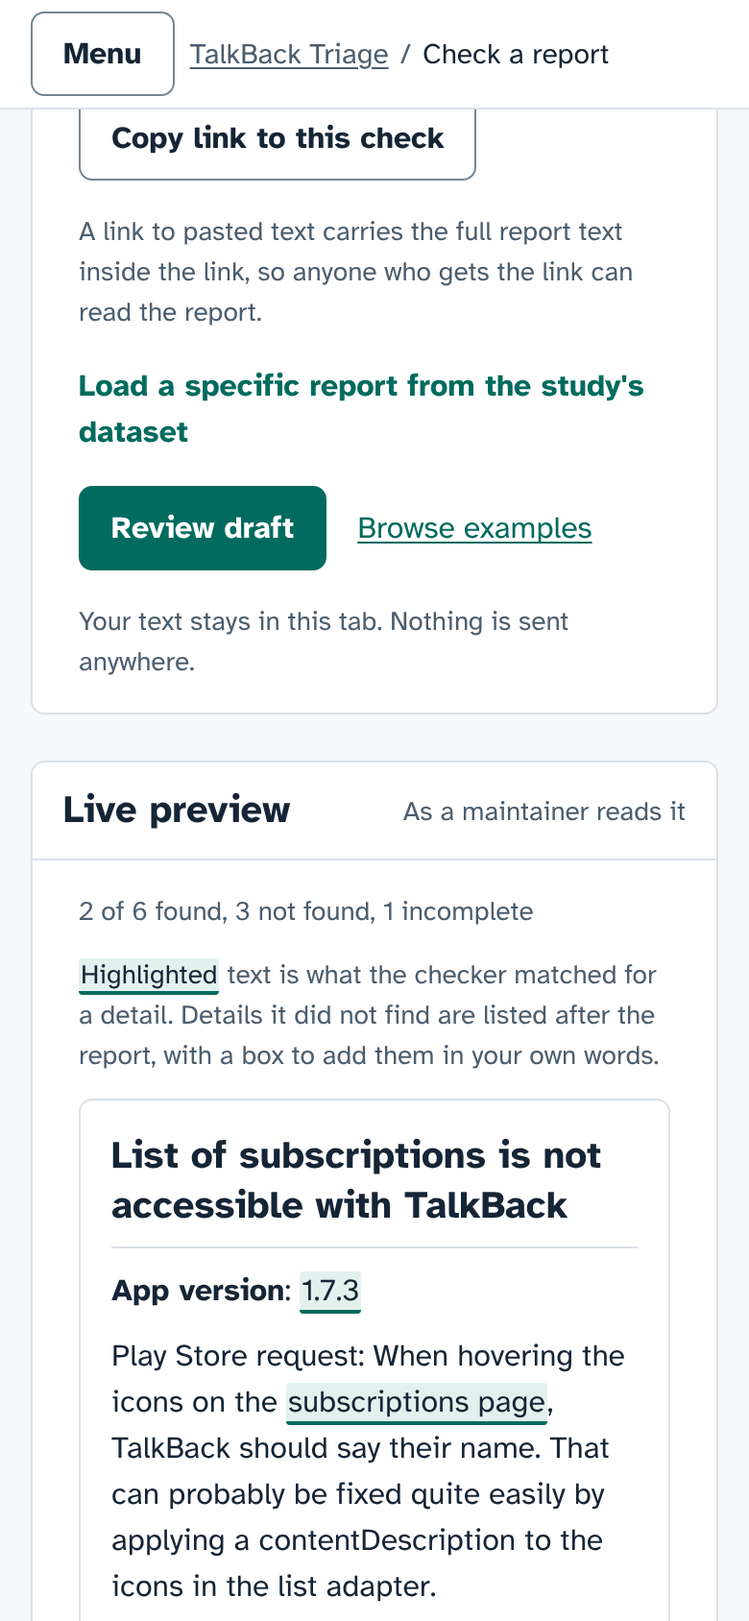
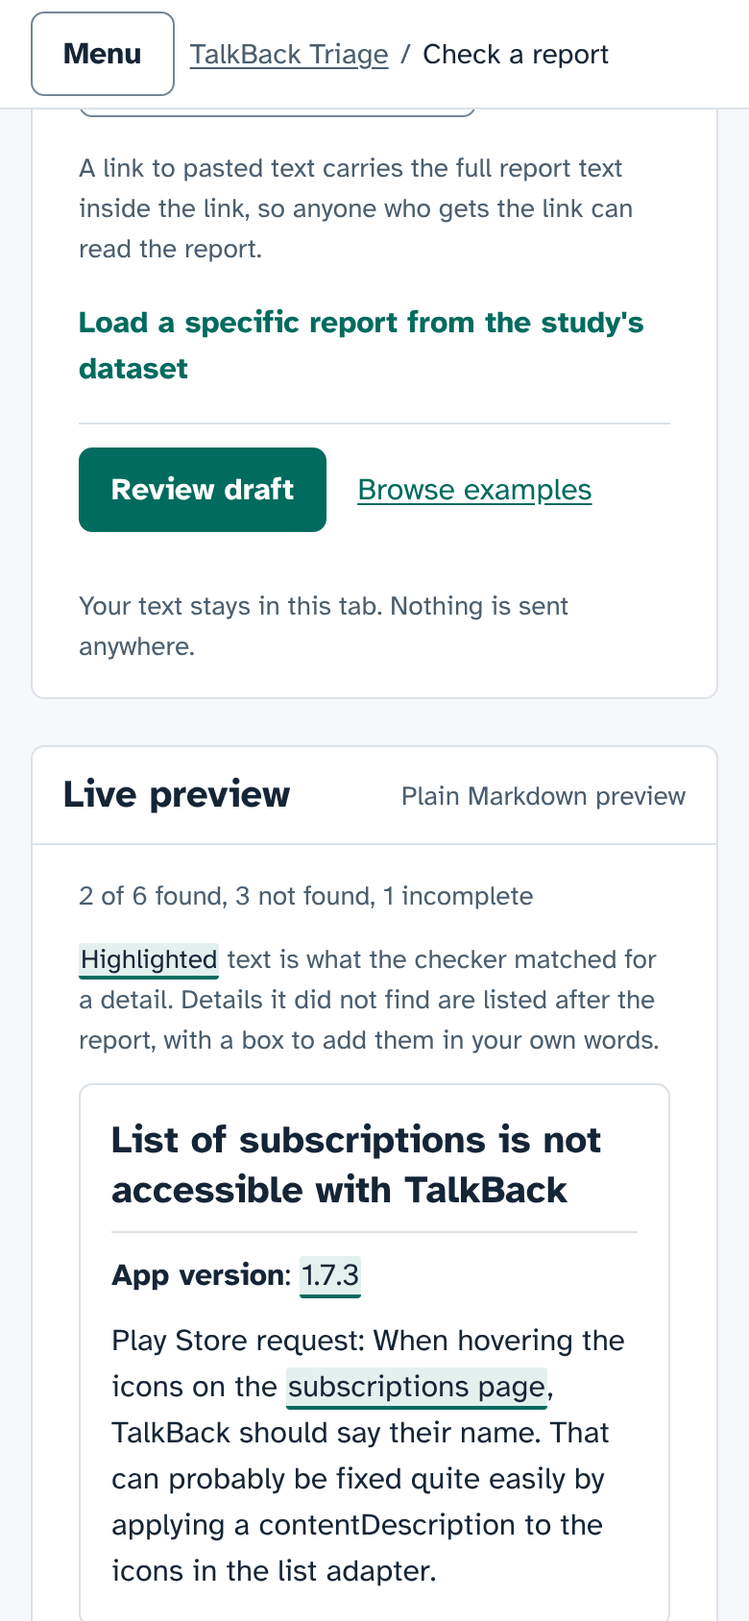
Review fixes: H1 focus on every route, primary action in view, exact highlights
- test: H1 focus asserted on all seven screens, each reached through the nav
  from another screen (sabotaging Draft's focus fails exactly that check)
- Review draft row is sticky at the bottom while the editor is visible
  (1440x900: in the viewport); scroll-padding keeps focus clear of the
  sticky header and action row (tested at 375px)
- table legends moved out of captions; captions capped to the visible
  region on narrow screens (overflow test checks captions and legends)
- highlight offsets come from a case-insensitive match on the original
  text, not a lower-cased copy (test with "İ")
- unknown #check?report= IDs say "Report not found"
- README/DESIGN/CHANGELOG: "plain Markdown preview of the issue body"
- commit the local semgrep rule file and the inline-script extractor

Claude-Session: https://claude.ai/code/session_01SBDy3AAAGa7xAC8BzFcKKn

Changed region(s): [[0.0615, 0.4621, 0.9231, 0.9858], [0.0923, 0.0616, 0.8615, 0.4313]]

diff --git a/docs/index.html b/docs/index.html
@@ -3,7 +3,7 @@
 <head>
 <meta charset="utf-8">
 <meta name="viewport" content="width=device-width, initial-scale=1, viewport-fit=cover">
-<meta http-equiv="Content-Security-Policy" content="default-src 'self'; script-src 'sha256-A9aR1WB4oRh7WdXzdJyHg42o6WdmUxBWDg2F4HEAiCU=' 'sha256-SAg9twp00yCf7otyFgCyoS+e4A5/DcrvQBHdz2pLGGM=' 'sha256-8rrvp3IlKpx7OC3Z4x7PLm4TD7SUo9IRxFA04K08lXQ=' 'sha256-E4MneF5z/DR0yJT+sWInBcrzLs+rr5Zu3oBrxZtsYFI='; style-src 'self' 'unsafe-inline'; font-src 'self'; img-src 'self' data:; connect-src 'self'; worker-src 'self'; manifest-src 'self'; object-src 'none'; base-uri 'none'; form-action 'none'">
+<meta http-equiv="Content-Security-Policy" content="default-src 'self'; script-src 'sha256-A9aR1WB4oRh7WdXzdJyHg42o6WdmUxBWDg2F4HEAiCU=' 'sha256-SAg9twp00yCf7otyFgCyoS+e4A5/DcrvQBHdz2pLGGM=' 'sha256-8rrvp3IlKpx7OC3Z4x7PLm4TD7SUo9IRxFA04K08lXQ=' 'sha256-Kf7R14+qAl6TmVcK8wD3q2BXd6DBcKSxFUo8OU2nQBk='; style-src 'self' 'unsafe-inline'; font-src 'self'; img-src 'self' data:; connect-src 'self'; worker-src 'self'; manifest-src 'self'; object-src 'none'; base-uri 'none'; form-action 'none'">
 <meta name="description" content="Paste an Android accessibility bug report and see which details a developer needs are missing: TalkBack steps, app version, device, expected vs. actual. Runs offline in the browser.">
 <meta name="theme-color" content="#f7f8fa">
 <link rel="icon" href="icon.svg" type="image/svg+xml">
@@ -178,7 +178,12 @@ mark.hit { background: var(--accent-subtle); color: var(--fg); border-bottom: 2p
 .hint { font-size: .875rem; color: var(--fg-muted); }
 .src { font-size: .875rem; color: var(--fg-muted); overflow-wrap: anywhere; }
 .tools { display: flex; flex-wrap: wrap; gap: var(--s2); padding-top: var(--s3); border-top: 1px solid var(--border); }
-.focal { display: flex; flex-wrap: wrap; gap: var(--s3); align-items: center; }
+/* the one primary action stays in view while the editor is on screen (sticky to the viewport bottom) */
+.focal { display: flex; flex-wrap: wrap; gap: var(--s3); align-items: center; position: sticky; bottom: 0; z-index: 2; background: var(--bg); padding: 12px 0; border-top: 1px solid var(--border); }
+/* keep keyboard focus from landing under the sticky action row (WCAG 2.4.11) */
+html { scroll-padding-bottom: 96px; }
+/* under 1000px the location header is sticky too: keep focused controls from scrolling under it */
+@media (max-width: 999px) { html { scroll-padding-top: 80px; } }
 .privacy { font-size: .875rem; color: var(--fg-muted); }
 #copy-tpl-status:empty, #link-status:empty { display: none; }
 .summary { font-size: .875rem; color: var(--fg-muted); font-weight: 400; }
@@ -255,13 +260,17 @@ tr.sel td { background: var(--accent-subtle); }
 .prose ul { margin: 0; padding-left: 1.2em; display: grid; gap: 6px; }
 .grid2 { display: grid; grid-template-columns: minmax(0, 1.15fr) minmax(0, 1fr); gap: var(--s3); align-items: start; }
 @media (max-width: 1099px) { .grid2 { grid-template-columns: minmax(0, 1fr); } }
-.legendline { font-size: .8125rem; color: var(--fg-muted); font-weight: 400; }
+.legendline { font-size: .8125rem; color: var(--fg-muted); font-weight: 400; max-width: 80ch; }
 .noscript { margin: 16px 0; padding: 12px 16px; border: 1px solid var(--border-strong); border-radius: var(--radius); background: var(--bg); color: var(--fg); max-width: 80ch; }
 .noscript p { margin: 0; }
 @media (pointer: coarse) { input[type="text"], textarea, select { font-size: 16px; } }
 /* the saved-run picker's options are long: let the control shrink inside its row */
 label.row { min-width: 0; max-width: 100%; flex-wrap: nowrap; }
 label.row select { flex: 1 1 auto; min-width: 0; }
+/* a caption is as wide as its table; when the table scrolls inside its region, keep the caption within the
+   visible part of the region and pinned to its left edge, so it is never clipped */
+@media (max-width: 999px) { caption { max-width: calc(100vw - 50px); position: sticky; left: 0; } }
+@media (max-width: 599px) { caption { max-width: calc(100vw - 34px); } }
 </style>
 <script>
 // Light is the default, also when the OS prefers dark. Dark applies only after the person picks it with the
@@ -355,7 +364,7 @@ try { if (localStorage.getItem("tbt-theme") === "dark") document.documentElement
     </section>
 
     <section class="box preview" aria-labelledby="pv-h">
-      <div class="box-header"><h2 id="pv-h">Live preview</h2><span class="step">As a maintainer reads it</span></div>
+      <div class="box-header"><h2 id="pv-h">Live preview</h2><span class="step">Plain Markdown preview</span></div>
       <div class="box-body stack">
         <p class="summary" id="chk-score" role="status" aria-live="polite"></p>
         <p class="small muted" id="pv-legend"><mark class="hit">Highlighted</mark> text is what the checker matched for a detail. Details it did not find are listed after the report, with a box to add them in your own words.</p>
@@ -440,9 +449,10 @@ try { if (localStorage.getItem("tbt-theme") === "dark") document.documentElement
     </div>
   </div>
   <p class="small muted" id="ex-count" role="status" aria-live="polite"></p>
+  <p class="legendline" id="ex-legend">Details in report: a solid tag was found, a dashed, struck-through tag was not. TB TalkBack steps, VER app version, DEV Android version or device, E/A expected vs. actual, SAID what TalkBack said, MEDIA recording or screenshot.</p>
   <div class="tablewrap" tabindex="0" role="region" aria-label="Example reports">
-    <table id="ex-table">
-      <caption>Example reports<br><span class="legendline">Details in report: a solid tag was found, a dashed, struck-through tag was not. TB TalkBack steps, VER app version, DEV Android version or device, E/A expected vs. actual, SAID what TalkBack said, MEDIA recording or screenshot.</span></caption>
+    <table id="ex-table" aria-describedby="ex-legend">
+      <caption>Example reports</caption>
       <thead><tr><th scope="col">Report</th><th scope="col">Details in report</th><th scope="col">GitHub outcome</th></tr></thead>
       <tbody></tbody>
     </table>
@@ -1601,20 +1611,22 @@ if ("serviceWorker" in navigator && /^https?:$/.test(location.protocol) && windo
   const STATE_TEXT = { present: "Found", partial: "Incomplete", notfound: "Not found", optional: "Optional", na: "Not needed" };
 
   // ---------- the composer: live preview with matched spans and inline gap prompts ----------
-  // The preview shows the report the way a maintainer reads it on GitHub (headings, lists, quotes, code), built
+  // The preview is a plain Markdown preview of the issue body (headings, lists, quotes, code, bold), built
   // with DOM nodes only, so pasted HTML stays text. For each detail the checker found, the text it matched is
   // highlighted where it appears in the report (when that text can be placed exactly). Details it did not find
   // become gap prompts: the reporter types the detail and "Add to report" appends it, in their words, to the
   // report text. The checker itself (src/checker.js) is unchanged; nothing is filled in for the reporter.
   const lc = (x) => String(x || "").toLowerCase();
   function spansFor(body, a) {
-    const out = [], low = lc(body);
+    const out = [];
     const by = Object.fromEntries(a.items.map((i) => [i.key, i]));
     const lit = (txt, it) => {
       const t = String(txt || "").replace(/…$/, "").trim();
       if (t.length < 2) return;
-      const i = low.indexOf(lc(t));
-      if (i >= 0) out.push({ start: i, end: i + t.length, key: it.key, name: it.name });
+      // match on the original text (case-insensitive regex), so offsets stay right when lower-casing would
+      // change a string's length (for example "İ" becomes two code units)
+      const m = new RegExp(t.replace(/[.*+?^${}()|[\]\\]/g, "\\$&"), "i").exec(body);
+      if (m) out.push({ start: m.index, end: m.index + m[0].length, key: it.key, name: it.name });
     };
     const lines = (re, it) => { re.lastIndex = 0; let m; while ((m = re.exec(body))) { const lead = m[0].length - m[0].replace(/^[ \t>]*/, "").length; out.push({ start: m.index + lead, end: m.index + m[0].length, key: it.key, name: it.name }); if (!m[0].length) re.lastIndex++; } };
     const ok = (it) => it && (it.status === "present" || it.status === "partial") && it.found;
@@ -1849,6 +1861,11 @@ if ("serviceWorker" in navigator && /^https?:$/.test(location.protocol) && windo
   function applyCheckParams(params) {
     const id = params.get("report"), code = params.get("text");
     if (id && BY_ID[id]) { if (id !== shownId) loadExample(id); }
+    else if (id) {
+      ensureReport();
+      setHash("check", checkParams());
+      $("#ex-source").replaceChildren(h("strong", null, "Report not found. "), "The link asked for \u201c" + id.slice(0, 40) + "\u201d, which is not one of the " + REPORTS.length + " dataset reports. Showing the report already in this tab instead; see Examples for the list.");
+    }
     else if (code != null) {
       const st = C.decodeState(code);
       if (st) {
@@ -2260,8 +2277,8 @@ if ("serviceWorker" in navigator && /^https?:$/.test(location.protocol) && windo
         h("td", null, h("button", { class: "btn link", "aria-label": "Details for " + r.app + " #" + r.number, onclick: () => { detailId = r.id; renderResults(); const d = $("#detail"); if (d) d.focus(); } }, "Details")));
       return tr;
     });
-    const rt = h("table", null,
-      h("caption", null, "Every report in this run", h("br"), h("span", { class: "legendline" }, "Details in report: a solid tag was found, a dashed, struck-through tag was not. TB TalkBack steps, VER app version, DEV Android version or device, E/A expected vs. actual, SAID what TalkBack said, MEDIA recording or screenshot.")),
+    const rt = h("table", { "aria-describedby": "run-legend" },
+      h("caption", null, "Every report in this run"),
       h("thead", null, h("tr", null, h("th", { scope: "col" }, "Report"), h("th", { scope: "col" }, "Details in report"), h("th", { scope: "col" }, "GitHub outcome"), conds.map((c) => h("th", { scope: "col" }, T.CONDITIONS[c].short)), h("th", { scope: "col" }, h("span", { class: "sr-only" }, "Open")))),
       h("tbody", null, rowsEl));
 
@@ -2278,6 +2295,7 @@ if ("serviceWorker" in navigator && /^https?:$/.test(location.protocol) && windo
       Object.keys(S.paired).length ? h("div", { class: "box pad stack" }, h("h3", null, "Paired comparison"), pairedList) : null,
       human,
       detailId ? detailPanel(BY_ID[detailId], run, conds) : null,
+      h("p", { class: "legendline", id: "run-legend" }, "Details in report: a solid tag was found, a dashed, struck-through tag was not. TB TalkBack steps, VER app version, DEV Android version or device, E/A expected vs. actual, SAID what TalkBack said, MEDIA recording or screenshot."),
       h("div", { class: "tablewrap", tabindex: "0", role: "region", "aria-label": "Every report in this run" }, rt),
       exportRow].filter(Boolean));
   }

diff --git a/test/routes.e2e.js b/test/routes.e2e.js
@@ -79,6 +79,13 @@ const overflow = (page) => page.evaluate(() => document.scrollingElement.scrollW
         ok(cur.length === 1 && cur[0] === nav, hash + ": rail marks \"" + nav + "\" with aria-current=page (" + cur.join(", ") + ")");
       }
       const over = await overflow(page);
+      // captions and table legends must not be clipped by the table's own scroll region
+      const clipped = await page.$$eval("main caption, main .legendline", (els) => els.filter((e) => e.getClientRects().length && !e.closest("th, td")).filter((e) => {
+        const r = e.getBoundingClientRect(), box = e.closest(".tablewrap");
+        const edge = Math.min(window.innerWidth, box ? box.getBoundingClientRect().right : window.innerWidth);
+        return r.right > edge + 1 || e.scrollWidth > e.clientWidth + 1;
+      }).map((e) => (e.id || e.tagName) + " " + Math.round(e.getBoundingClientRect().width) + "px"));
+      ok(!clipped.length, width + "px " + hash + ": table captions and legends fit their region" + (clipped.length ? " (" + clipped.join(", ") + ")" : ""));
       ok(over <= 0, width + "px " + hash + ": no page horizontal overflow (" + over + "px)");
     }
     await goHash(page, "#/no-such-screen");
@@ -97,6 +104,30 @@ const overflow = (page) => page.evaluate(() => document.scrollingElement.scrollW
     ok(await page.evaluate(() => document.activeElement.getAttribute("tabindex") === "-1" && document.activeElement.id !== "main"), "the H1 (tabindex=-1), not the whole workspace, takes focus");
     await page.goBack(); await page.waitForTimeout(80);
     ok(await page.evaluate(() => document.activeElement.tagName === "H1" && /Check a TalkBack report/.test(document.activeElement.textContent)), "browser Back also focuses the H1");
+    await ctx.close();
+  });
+
+  console.log("H1 focus on every route, reached through the navigation");
+  // each target is opened from a different screen: rail links for the Work/Learn screens, the Research section nav
+  // for Labels and Methods, and an address change for Not found (it has no nav link)
+  const VIA = {
+    "#/check": ["#/examples", (p) => p.locator("#rail").getByRole("link", { name: "Check a report" }).click()],
+    "#/draft": ["#/check", (p) => p.locator("#rail").getByRole("link", { name: "Draft" }).click()],
+    "#/examples": ["#/draft", (p) => p.locator("#rail").getByRole("link", { name: "Examples" }).click()],
+    "#/research": ["#/check", (p) => p.locator("#rail").getByRole("link", { name: "Research" }).click()],
+    "#/research/labels": ["#/research", (p) => p.locator("#pilot nav.subnav").getByRole("link", { name: "Labels" }).click()],
+    "#/research/methods": ["#/research/labels", (p) => p.locator("#label nav.subnav").getByRole("link", { name: "Methods" }).click()],
+    "#/no-such-screen": ["#/examples", (p) => p.evaluate(() => { location.hash = "#/no-such-screen"; })],
+  };
+  await guard("H1 focus on every route", async () => {
+    const { ctx, page } = await open({}, "#/check");
+    for (const [hash, h1] of SCREENS.map((x) => [x[0], x[1]]).concat([["#/no-such-screen", "Page not found"]])) {
+      const [from, nav] = VIA[hash];
+      await goHash(page, from);
+      await nav(page); await page.waitForTimeout(80);
+      const got = await page.evaluate(() => ({ tag: document.activeElement.tagName, text: document.activeElement.textContent.trim(), hash: location.hash.split("?")[0] }));
+      ok(got.tag === "H1" && got.text === h1 && got.hash === hash, from + " -> " + hash + ": focus is on the H1 \"" + h1 + "\" (" + got.tag + " \"" + got.text.slice(0, 40) + "\")");
+    }
     await ctx.close();
   });
 
@@ -165,6 +196,43 @@ const overflow = (page) => page.evaluate(() => document.scrollingElement.scrollW
   await guard("block at line 164", async () => {
     const { ctx, page } = await open({}, "#/examples?app=WP");
     ok((await h1Text(page)) === "Examples" && (await page.locator("#ex-table tbody tr").count()) === 51, "deep link #/examples?app=WP opens with the filter applied (51 rows)");
+    await ctx.close();
+  });
+
+  console.log("primary action in view, unknown report links");
+  await guard("Review draft in view", async () => {
+    const { ctx, page } = await open({ viewport: { width: 1440, height: 900 } }, "#/check?report=AP-3563");
+    const box = await page.getByRole("link", { name: "Review draft" }).boundingBox();
+    ok(box && box.y >= 0 && box.y + box.height <= 900 && box.x + box.width <= 1440, "1440x900: Review draft is inside the viewport without scrolling (y=" + (box && Math.round(box.y)) + ")");
+    await ctx.close();
+  });
+  await guard("unknown report", async () => {
+    const { ctx, page } = await open({}, "#check?report=AP-999999");
+    ok(/Report not found/.test(await page.textContent("#ex-source")) && /AP-999999/.test(await page.textContent("#ex-source")), "an unknown report ID says so instead of silently showing a sample: " + (await page.textContent("#ex-source")).slice(0, 80));
+    ok(!/AP-999999/.test(await page.evaluate(() => location.hash)), "the address no longer points at the missing report");
+    await ctx.close();
+  });
+
+  await guard("focus not obscured", async () => {
+    // WCAG 2.4.11: a focused control stays at least partly visible past the sticky header and the sticky action row
+    const { ctx, page } = await open({ viewport: { width: 375, height: 640 } }, "#/check?report=AP-3563");
+    const hidden = [];
+    for (let i = 0; i < 30; i++) {
+      await page.keyboard.press("Tab");
+      const r = await page.evaluate(() => {
+        const a = document.activeElement, b = a.getBoundingClientRect();
+        const head = document.querySelector(".loc").getBoundingClientRect();
+        const bar = document.querySelector("#check .focal");
+        if (a === document.body || a.closest(".loc") || a.id === "skip") return { visible: true };
+        // the action row covers only what is below its top edge while it is pinned there
+        let barTop = window.innerHeight;
+        if (bar && !bar.contains(a) && bar.getClientRects().length) { const t = bar.getBoundingClientRect().top; if (t > b.top) barTop = t; }
+        const top = Math.max(b.top, head.bottom), bottom = Math.min(b.bottom, barTop, window.innerHeight);
+        return { id: a.id || a.textContent.trim().slice(0, 24), visible: bottom > top };
+      });
+      if (!r.visible) hidden.push(r.id);
+    }
+    ok(!hidden.length, "375px: no focused control is hidden under the sticky header or action row" + (hidden.length ? " (" + hidden.join(", ") + ")" : ""));
     await ctx.close();
   });
 
@@ -241,6 +309,18 @@ const overflow = (page) => page.evaluate(() => document.scrollingElement.scrollW
     ok((await page.getAttribute('#checklist li[data-key="device"]', "data-status")) === "present" && (await page.locator('#gaps .gap[data-key="device"]').count()) === 0, "the report is re-checked: the device is now found and its prompt is gone");
     ok(/now finds it/.test(await page.textContent("#gap-status")), "the result is announced: " + (await page.textContent("#gap-status")));
     ok((await page.evaluate(() => location.hash)) === "#/check", "the edited report is no longer the dataset report in the URL");
+    await ctx.close();
+  });
+
+  await guard("highlight offsets", async () => {
+    const { ctx, page } = await open({}, "#/check");
+    // "İ" becomes two code units when lower-cased, which shifted offsets taken from a lower-cased copy
+    await page.fill("#in-title", "İİİİ Istanbul list");
+    await page.fill("#in-body", "İİİİ İstanbul İzmir screen.\nApp version: 3.1.0\nTalkBack says Button.");
+    await page.waitForTimeout(300);
+    const hit = page.locator('#preview mark.hit[data-key="appVersion"]');
+    const t = (await hit.count()) ? (await hit.textContent()).replace(/ \(matched:.*$/, "") : "";
+    ok(t === "3.1.0", "with İ before it, the app version highlight covers exactly \"3.1.0\" (" + JSON.stringify(t) + ")");
     await ctx.close();
   });
 

diff --git a/src/app.html b/src/app.html
@@ -93,7 +93,7 @@ try { if (localStorage.getItem("tbt-theme") === "dark") document.documentElement
     </section>
 
     <section class="box preview" aria-labelledby="pv-h">
-      <div class="box-header"><h2 id="pv-h">Live preview</h2><span class="step">As a maintainer reads it</span></div>
+      <div class="box-header"><h2 id="pv-h">Live preview</h2><span class="step">Plain Markdown preview</span></div>
       <div class="box-body stack">
         <p class="summary" id="chk-score" role="status" aria-live="polite"></p>
         <p class="small muted" id="pv-legend"><mark class="hit">Highlighted</mark> text is what the checker matched for a detail. Details it did not find are listed after the report, with a box to add them in your own words.</p>
@@ -178,9 +178,10 @@ try { if (localStorage.getItem("tbt-theme") === "dark") document.documentElement
     </div>
   </div>
   <p class="small muted" id="ex-count" role="status" aria-live="polite"></p>
+  <p class="legendline" id="ex-legend">Details in report: a solid tag was found, a dashed, struck-through tag was not. TB TalkBack steps, VER app version, DEV Android version or device, E/A expected vs. actual, SAID what TalkBack said, MEDIA recording or screenshot.</p>
   <div class="tablewrap" tabindex="0" role="region" aria-label="Example reports">
-    <table id="ex-table">
-      <caption>Example reports<br><span class="legendline">Details in report: a solid tag was found, a dashed, struck-through tag was not. TB TalkBack steps, VER app version, DEV Android version or device, E/A expected vs. actual, SAID what TalkBack said, MEDIA recording or screenshot.</span></caption>
+    <table id="ex-table" aria-describedby="ex-legend">
+      <caption>Example reports</caption>
       <thead><tr><th scope="col">Report</th><th scope="col">Details in report</th><th scope="col">GitHub outcome</th></tr></thead>
       <tbody></tbody>
     </table>
@@ -580,20 +581,22 @@ if ("serviceWorker" in navigator && /^https?:$/.test(location.protocol) && windo
   const STATE_TEXT = { present: "Found", partial: "Incomplete", notfound: "Not found", optional: "Optional", na: "Not needed" };
 
   // ---------- the composer: live preview with matched spans and inline gap prompts ----------
-  // The preview shows the report the way a maintainer reads it on GitHub (headings, lists, quotes, code), built
+  // The preview is a plain Markdown preview of the issue body (headings, lists, quotes, code, bold), built
   // with DOM nodes only, so pasted HTML stays text. For each detail the checker found, the text it matched is
   // highlighted where it appears in the report (when that text can be placed exactly). Details it did not find
   // become gap prompts: the reporter types the detail and "Add to report" appends it, in their words, to the
   // report text. The checker itself (src/checker.js) is unchanged; nothing is filled in for the reporter.
   const lc = (x) => String(x || "").toLowerCase();
   function spansFor(body, a) {
-    const out = [], low = lc(body);
+    const out = [];
     const by = Object.fromEntries(a.items.map((i) => [i.key, i]));
     const lit = (txt, it) => {
       const t = String(txt || "").replace(/…$/, "").trim();
       if (t.length < 2) return;
-      const i = low.indexOf(lc(t));
-      if (i >= 0) out.push({ start: i, end: i + t.length, key: it.key, name: it.name });
+      // match on the original text (case-insensitive regex), so offsets stay right when lower-casing would
+      // change a string's length (for example "İ" becomes two code units)
+      const m = new RegExp(t.replace(/[.*+?^${}()|[\]\\]/g, "\\$&"), "i").exec(body);
+      if (m) out.push({ start: m.index, end: m.index + m[0].length, key: it.key, name: it.name });
     };
     const lines = (re, it) => { re.lastIndex = 0; let m; while ((m = re.exec(body))) { const lead = m[0].length - m[0].replace(/^[ \t>]*/, "").length; out.push({ start: m.index + lead, end: m.index + m[0].length, key: it.key, name: it.name }); if (!m[0].length) re.lastIndex++; } };
     const ok = (it) => it && (it.status === "present" || it.status === "partial") && it.found;
@@ -828,6 +831,11 @@ if ("serviceWorker" in navigator && /^https?:$/.test(location.protocol) && windo
   function applyCheckParams(params) {
     const id = params.get("report"), code = params.get("text");
     if (id && BY_ID[id]) { if (id !== shownId) loadExample(id); }
+    else if (id) {
+      ensureReport();
+      setHash("check", checkParams());
+      $("#ex-source").replaceChildren(h("strong", null, "Report not found. "), "The link asked for \u201c" + id.slice(0, 40) + "\u201d, which is not one of the " + REPORTS.length + " dataset reports. Showing the report already in this tab instead; see Examples for the list.");
+    }
     else if (code != null) {
       const st = C.decodeState(code);
       if (st) {
@@ -1239,8 +1247,8 @@ if ("serviceWorker" in navigator && /^https?:$/.test(location.protocol) && windo
         h("td", null, h("button", { class: "btn link", "aria-label": "Details for " + r.app + " #" + r.number, onclick: () => { detailId = r.id; renderResults(); const d = $("#detail"); if (d) d.focus(); } }, "Details")));
       return tr;
     });
-    const rt = h("table", null,
-      h("caption", null, "Every report in this run", h("br"), h("span", { class: "legendline" }, "Details in report: a solid tag was found, a dashed, struck-through tag was not. TB TalkBack steps, VER app version, DEV Android version or device, E/A expected vs. actual, SAID what TalkBack said, MEDIA recording or screenshot.")),
+    const rt = h("table", { "aria-describedby": "run-legend" },
+      h("caption", null, "Every report in this run"),
       h("thead", null, h("tr", null, h("th", { scope: "col" }, "Report"), h("th", { scope: "col" }, "Details in report"), h("th", { scope: "col" }, "GitHub outcome"), conds.map((c) => h("th", { scope: "col" }, T.CONDITIONS[c].short)), h("th", { scope: "col" }, h("span", { class: "sr-only" }, "Open")))),
       h("tbody", null, rowsEl));
 
@@ -1257,6 +1265,7 @@ if ("serviceWorker" in navigator && /^https?:$/.test(location.protocol) && windo
       Object.keys(S.paired).length ? h("div", { class: "box pad stack" }, h("h3", null, "Paired comparison"), pairedList) : null,
       human,
       detailId ? detailPanel(BY_ID[detailId], run, conds) : null,
+      h("p", { class: "legendline", id: "run-legend" }, "Details in report: a solid tag was found, a dashed, struck-through tag was not. TB TalkBack steps, VER app version, DEV Android version or device, E/A expected vs. actual, SAID what TalkBack said, MEDIA recording or screenshot."),
       h("div", { class: "tablewrap", tabindex: "0", role: "region", "aria-label": "Every report in this run" }, rt),
       exportRow].filter(Boolean));
   }

diff --git a/src/app.css b/src/app.css
@@ -117,7 +117,12 @@ mark.hit { background: var(--accent-subtle); color: var(--fg); border-bottom: 2p
 .hint { font-size: .875rem; color: var(--fg-muted); }
 .src { font-size: .875rem; color: var(--fg-muted); overflow-wrap: anywhere; }
 .tools { display: flex; flex-wrap: wrap; gap: var(--s2); padding-top: var(--s3); border-top: 1px solid var(--border); }
-.focal { display: flex; flex-wrap: wrap; gap: var(--s3); align-items: center; }
+/* the one primary action stays in view while the editor is on screen (sticky to the viewport bottom) */
+.focal { display: flex; flex-wrap: wrap; gap: var(--s3); align-items: center; position: sticky; bottom: 0; z-index: 2; background: var(--bg); padding: 12px 0; border-top: 1px solid var(--border); }
+/* keep keyboard focus from landing under the sticky action row (WCAG 2.4.11) */
+html { scroll-padding-bottom: 96px; }
+/* under 1000px the location header is sticky too: keep focused controls from scrolling under it */
+@media (max-width: 999px) { html { scroll-padding-top: 80px; } }
 .privacy { font-size: .875rem; color: var(--fg-muted); }
 #copy-tpl-status:empty, #link-status:empty { display: none; }
 .summary { font-size: .875rem; color: var(--fg-muted); font-weight: 400; }
@@ -194,10 +199,14 @@ tr.sel td { background: var(--accent-subtle); }
 .prose ul { margin: 0; padding-left: 1.2em; display: grid; gap: 6px; }
 .grid2 { display: grid; grid-template-columns: minmax(0, 1.15fr) minmax(0, 1fr); gap: var(--s3); align-items: start; }
 @media (max-width: 1099px) { .grid2 { grid-template-columns: minmax(0, 1fr); } }
-.legendline { font-size: .8125rem; color: var(--fg-muted); font-weight: 400; }
+.legendline { font-size: .8125rem; color: var(--fg-muted); font-weight: 400; max-width: 80ch; }
 .noscript { margin: 16px 0; padding: 12px 16px; border: 1px solid var(--border-strong); border-radius: var(--radius); background: var(--bg); color: var(--fg); max-width: 80ch; }
 .noscript p { margin: 0; }
 @media (pointer: coarse) { input[type="text"], textarea, select { font-size: 16px; } }
 /* the saved-run picker's options are long: let the control shrink inside its row */
 label.row { min-width: 0; max-width: 100%; flex-wrap: nowrap; }
 label.row select { flex: 1 1 auto; min-width: 0; }
+/* a caption is as wide as its table; when the table scrolls inside its region, keep the caption within the
+   visible part of the region and pinned to its left edge, so it is never clipped */
+@media (max-width: 999px) { caption { max-width: calc(100vw - 50px); position: sticky; left: 0; } }
+@media (max-width: 599px) { caption { max-width: calc(100vw - 34px); } }

diff --git a/scripts/inline-scripts.js b/scripts/inline-scripts.js
@@ -1,0 +1,12 @@
+#!/usr/bin/env node
+// Write the inline <script> blocks of src/app.html (the page's own code, not the bundled checker) to one .js
+// file, so a JavaScript scanner such as semgrep can read them:  node scripts/inline-scripts.js <out.js>
+"use strict";
+const fs = require("fs");
+const { rel } = require("./lib.js");
+const out = process.argv[2];
+if (!out) { console.error("usage: node scripts/inline-scripts.js <out.js>"); process.exit(2); }
+const html = fs.readFileSync(rel("src", "app.html"), "utf8");
+const blocks = [...html.matchAll(/<script>([\s\S]*?)<\/script>/g)].map((m) => m[1]).filter((c) => !c.includes("/*CORE*/"));
+fs.writeFileSync(out, blocks.join("\n;\n"));
+console.log("Wrote " + blocks.length + " inline script block(s) to " + out);

diff --git a/README.md b/README.md
@@ -25,7 +25,7 @@ Below the checker, this repository holds an exploratory study: does removing Tal
 
 The [live app](https://anirudh763.github.io/talkback-triage-pilot/) checks one bug report for missing sections: steps, versions, device, expected and actual behavior, and where in the app. It opens on **Check a report** (`#/check`) with a real, incomplete issue from the dataset; press **Try a sample report** for another, or paste your own.
 
-Check is a report composer: the report text beside a live preview of the report as a maintainer reads it on GitHub. Text the checker matched is highlighted where it appears. Each detail it did not find becomes a prompt where you type it in your own words and **Add to report**; the report is then checked again. Nothing is filled in for you. Each detail is also listed as Found, Incomplete, Not found, Optional or Not needed, in text and with an icon.
+Check is a report composer: the report text beside a plain Markdown preview of the issue body (headings, lists, quotes, code and bold; other Markdown shows as text). Text the checker matched is highlighted where it appears. Each detail it did not find becomes a prompt where you type it in your own words and **Add to report**; the report is then checked again. Nothing is filled in for you. Each detail is also listed as Found, Incomplete, Not found, Optional or Not needed, in text and with an icon.
 
 **Review draft** (`#/draft`) opens the draft on its own screen: your report rearranged under the headings a developer looks for, with what to add marked `[ADD: ...]`, ready to copy or download as Markdown. **Examples** (`#/examples`) lists the 75 dataset reports with filters (app, a detail not found, title text); each opens in Check and links to its GitHub issue. The study is under **Research** (`#/research`, `#/research/labels`, `#/research/methods`). The page is light by default, including when your system prefers dark; **Dark theme** in the menu switches and is remembered. Old links (`#check?report=…`, `#pilot`, `#label`, `#about`) still work.
 
@@ -53,7 +53,7 @@ It finds missing sections only. A report with every section is not necessarily r
 
 **Accessibility.** Passes automated axe-core checks with 0 violations on every screen, at 1280, 375 and 320 px wide, in the default light theme and the opt-in dark theme. Playwright also checks keyboard-only use, focus moving to each screen's heading, the Menu sheet (Escape closes it and returns focus), Back/Forward keeping the report, 320/768/1440 px widths without sideways scrolling, 200% zoom, 24px minimum targets (controls are built at 44px) and error states. A manual screen-reader check has not been run.
 
-**Security.** Checked with `npm audit` (0 vulnerabilities) and a manual review of every place the page shows pasted or dataset text and of the CI workflow; no high-severity findings. semgrep ran with a local rule set for HTML-string sinks (`innerHTML`, `insertAdjacentHTML`, `document.write`, `eval`, `new Function`): 0 findings; its registry rule packs could not be downloaded in the environment used. Hardening: a Content Security Policy, data embedded in the page escapes every `<`, the CI workflow uses a read-only token and actions pinned to commit SHAs, and pasted text is only ever shown as text (tested).
+**Security.** Checked with `npm audit` (0 vulnerabilities) and a manual review of every place the page shows pasted or dataset text and of the CI workflow; no high-severity findings. semgrep ran with the committed rule file `.semgrep/dom-sinks.yml` (HTML-string sinks: `innerHTML`, `outerHTML`, `insertAdjacentHTML`, `document.write`, `eval`, `new Function`, string `setTimeout`, `createContextualFragment`) over `src/`, `scripts/` and the page's inline scripts: 0 findings. Command: `node scripts/inline-scripts.js /tmp/app-inline.js && semgrep --metrics=off --config .semgrep/dom-sinks.yml /tmp/app-inline.js src scripts`. Its registry rule packs could not be downloaded in the environment used. Hardening: a Content Security Policy, data embedded in the page escapes every `<`, the CI workflow uses a read-only token and actions pinned to commit SHAs, and pasted text is only ever shown as text (tested).
 
 ## Use it in your own repo
 

diff --git a/CHANGELOG.md b/CHANGELOG.md
@@ -8,10 +8,15 @@ The checker's rules (`src/checker.js`, `src/core.js`), `data/` and `results/` ar
 
 - Each task is its own screen on a hash route: `#/check` (default), `#/draft`, `#/examples`, and under Learn `#/research`, `#/research/labels`, `#/research/methods`. Unknown routes show a Not found screen. Every route change updates the page title and moves focus to the screen's H1.
 - Old links keep working: `#check?report=…` and `#check?text=…` open `#/check` with the same report; `#pilot`, `#label` and `#about` open the matching research screen.
-- Check is a report composer: editor beside a live preview of the report as a maintainer reads it. Text the checker matched is highlighted where it appears; each detail it did not find is a prompt where the reporter types it in their own words and adds it to the report. Nothing is filled in automatically.
+- Check is a report composer: editor beside a plain Markdown preview of the issue body. Text the checker matched is highlighted where it appears; each detail it did not find is a prompt where the reporter types it in their own words and adds it to the report. Nothing is filled in automatically.
 - Draft is its own screen with Copy draft and Download as Markdown. Title and body stay in the tab (sessionStorage) across Draft, Back/Forward and reloads.
 - Examples lists the 75 dataset reports with filters (app, a detail not found, title text) kept in the URL; each row opens in Check and links to the GitHub issue.
 - Light by default, also when the OS prefers dark. Dark is an explicit, remembered "Dark theme" toggle. New tokens, 16px type, 44px targets; a 216px rail on wide screens and a Menu sheet (Escape closes it and returns focus) below 1000px.
+- Review draft stays in view: its row is pinned to the bottom of the screen while the report editor is visible, and `scroll-padding` keeps keyboard focus from landing under it or under the sticky header on narrow screens.
+- Highlights are placed on the original text with a case-insensitive match, so characters that change length when lower-cased (such as "İ") no longer shift them.
+- A link to a report ID that is not in the dataset says "Report not found" instead of quietly showing another report.
+- Table legends sit above their scrolling region, and captions stay inside the visible part of it on narrow screens.
+- `.semgrep/dom-sinks.yml` and `scripts/inline-scripts.js`: the local semgrep check for HTML-string sinks, with the command in the README.
 - The offline cache name moves to v0.3.0.
 - `test/routes.e2e.js` covers the routes, focus, Menu sheet, Back/Forward state, old links, light default and axe-core in light and dark at 1280 and 320 px.
 

diff --git a/DESIGN.md b/DESIGN.md
@@ -36,7 +36,7 @@ controls: 44px minimum target, 7px radius, 1px boundary
 # talkback-triage-pilot design
 
 ## Overview
-A report-preparation tool for Android accessibility bug reports. Its signature is the **report composer** on Check: the editor beside a live preview of the report as a maintainer reads it on GitHub. Text the checker matched is highlighted in place; each detail it did not find is a gap prompt where the reporter adds it in their own words. Nothing is filled in automatically. The draft is reviewed, copied or downloaded on its own screen. The study (results, labels, methods) sits under Learn.
+A report-preparation tool for Android accessibility bug reports. Its signature is the **report composer** on Check: the editor beside a plain Markdown preview of the issue body. Text the checker matched is highlighted in place; each detail it did not find is a gap prompt where the reporter adds it in their own words. Nothing is filled in automatically. The draft is reviewed, copied or downloaded on its own screen. The study (results, labels, methods) sits under Learn.
 
 ## Layout
 - Desktop (1000px and wider): 216px left rail (text wordmark, one-line purpose, a "Work" group: Check a report, Draft, Examples; a "Learn" group: Research; theme toggle, version and source link at the foot) + a white location header (breadcrumb "TalkBack Triage / Screen", "← Back" on Draft) + workspace with a 32px gutter, content max 1100px.
